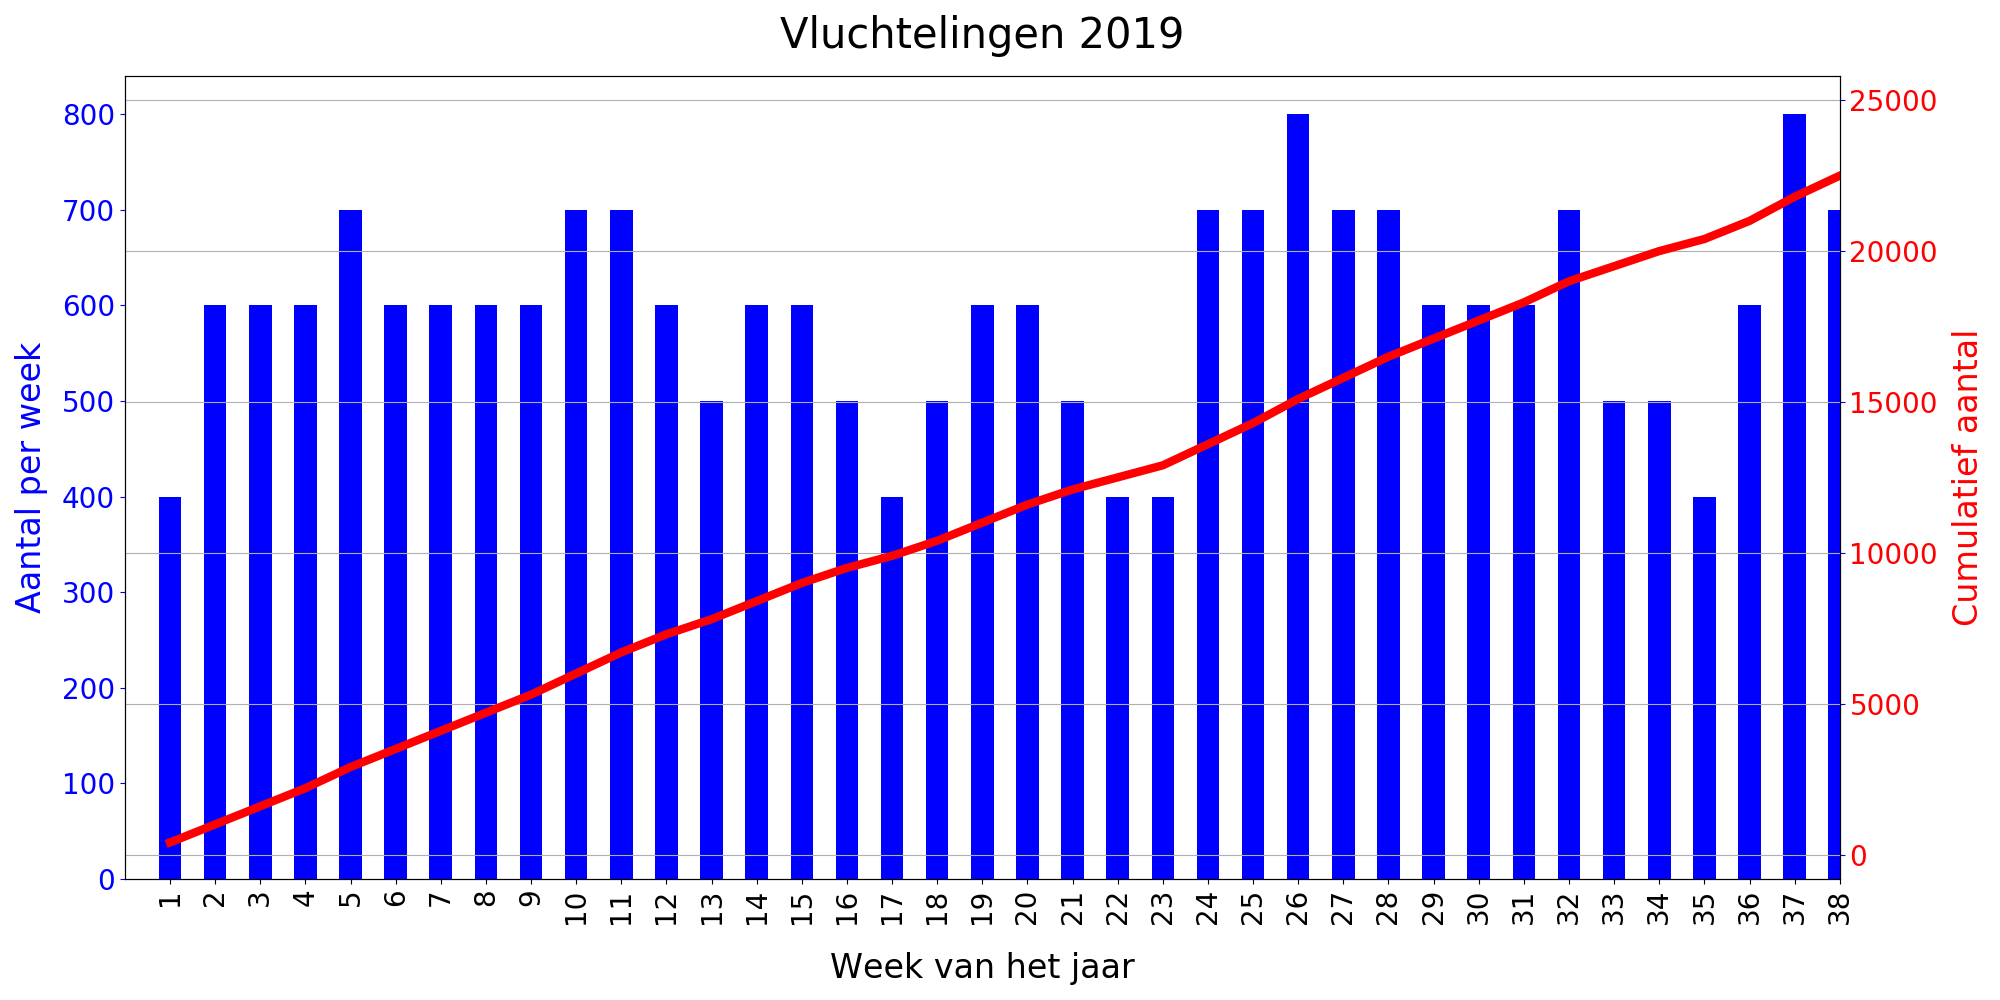
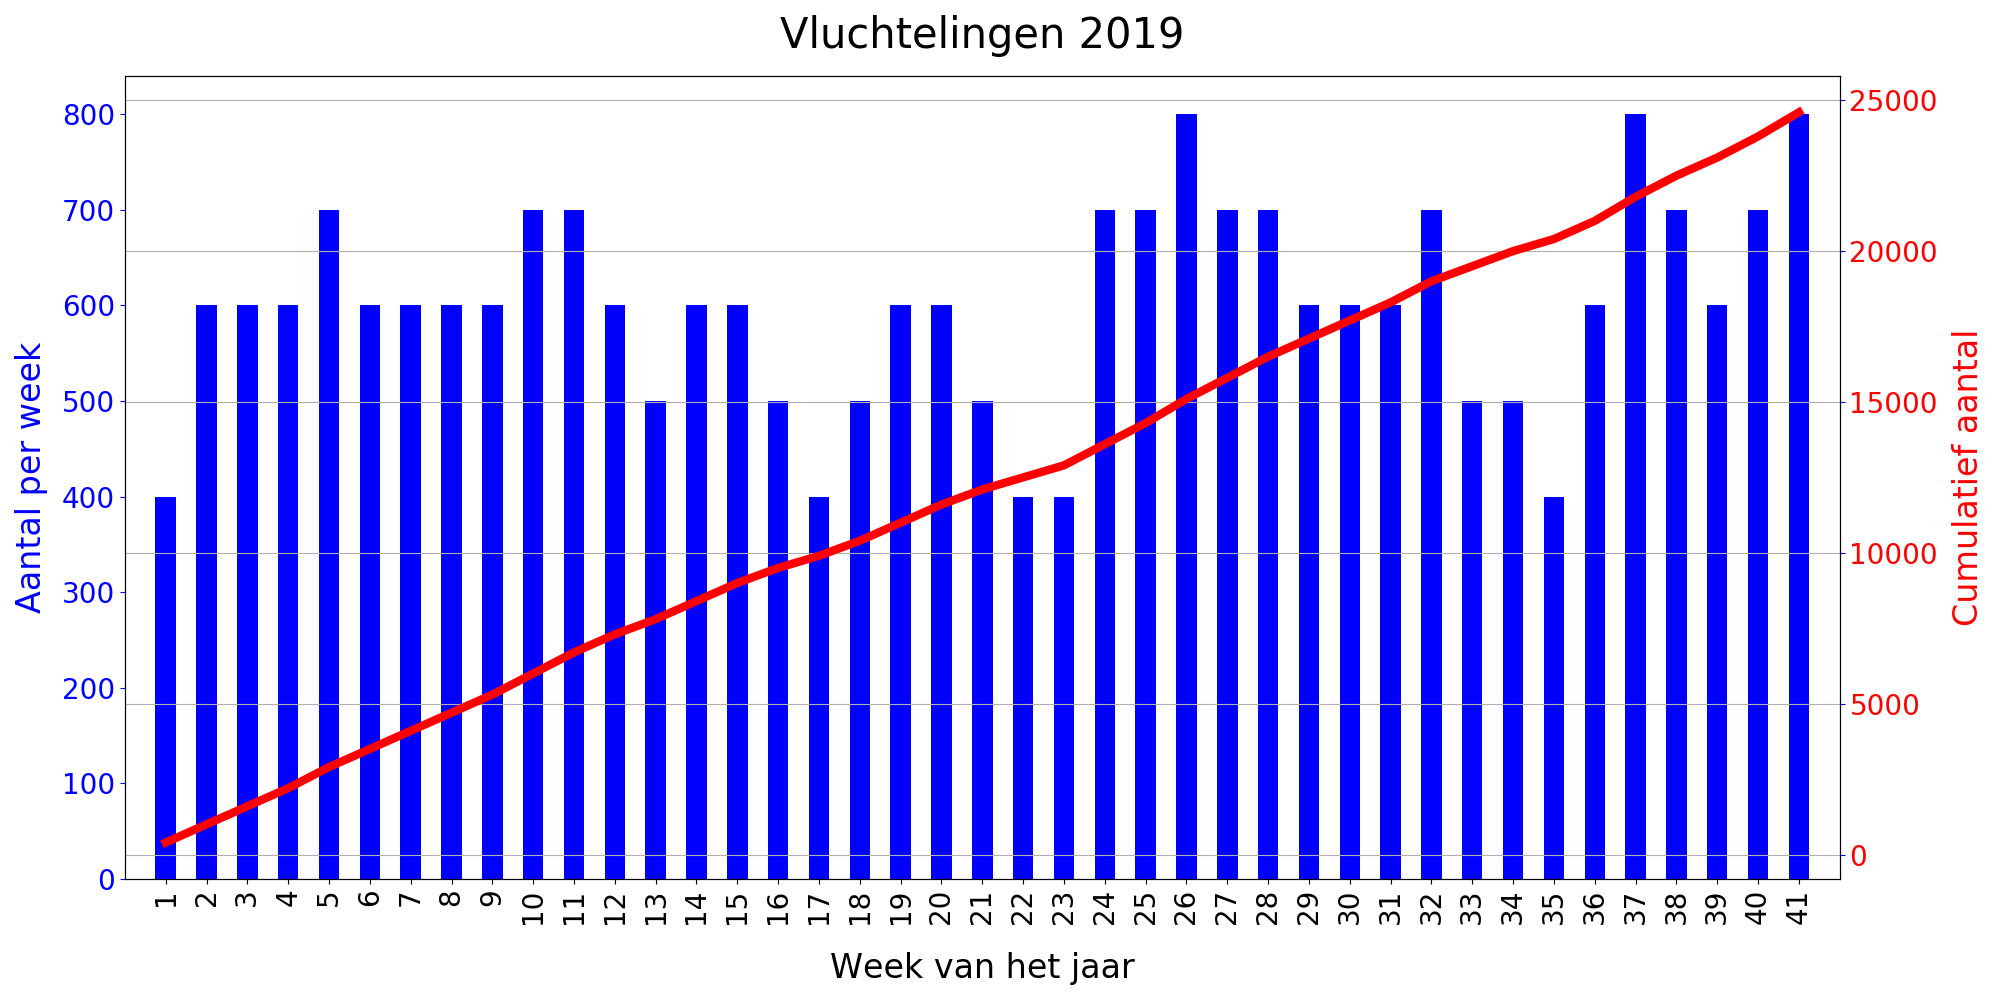
fixed the limits

Changed region(s): [[0.062, 0.093, 0.93, 0.93], [0.868, 0.093, 0.899, 0.155]]

diff --git a/track.py b/track.py
@@ -17,7 +17,7 @@ df['week']=df['week'].apply(lambda x: int(x))
 df['week2']=df['week']-1
 df['cumulatief']= df['aantal'].cumsum()
 
-
+print(df)
 fig, ax = plt.subplots(figsize=(20,10))
 ax2 = ax.twinx()
 df.plot(x='week',y='aantal',ax=ax, kind='bar', legend=None, color='b')
@@ -29,7 +29,7 @@ ax2.set_ylabel("Cumulatief aantal", fontsize=24, color='r', labelpad=10)
 ax.tick_params(labelsize=20, color='b',axis='y', labelcolor='b')
 ax2.tick_params(labelsize=20, color='b',axis='y', labelcolor='r')
 ax.tick_params(labelsize=20, color='k',axis='x', labelcolor='k')
-ax.set_xlim([-1,37])
+ax.set_xlim([-1,df['week'].max()])
 ax.set_title("Vluchtelingen 2019", fontsize=30, pad=20)
 fig.tight_layout()
 fig.savefig("vluchtelingen.png")
